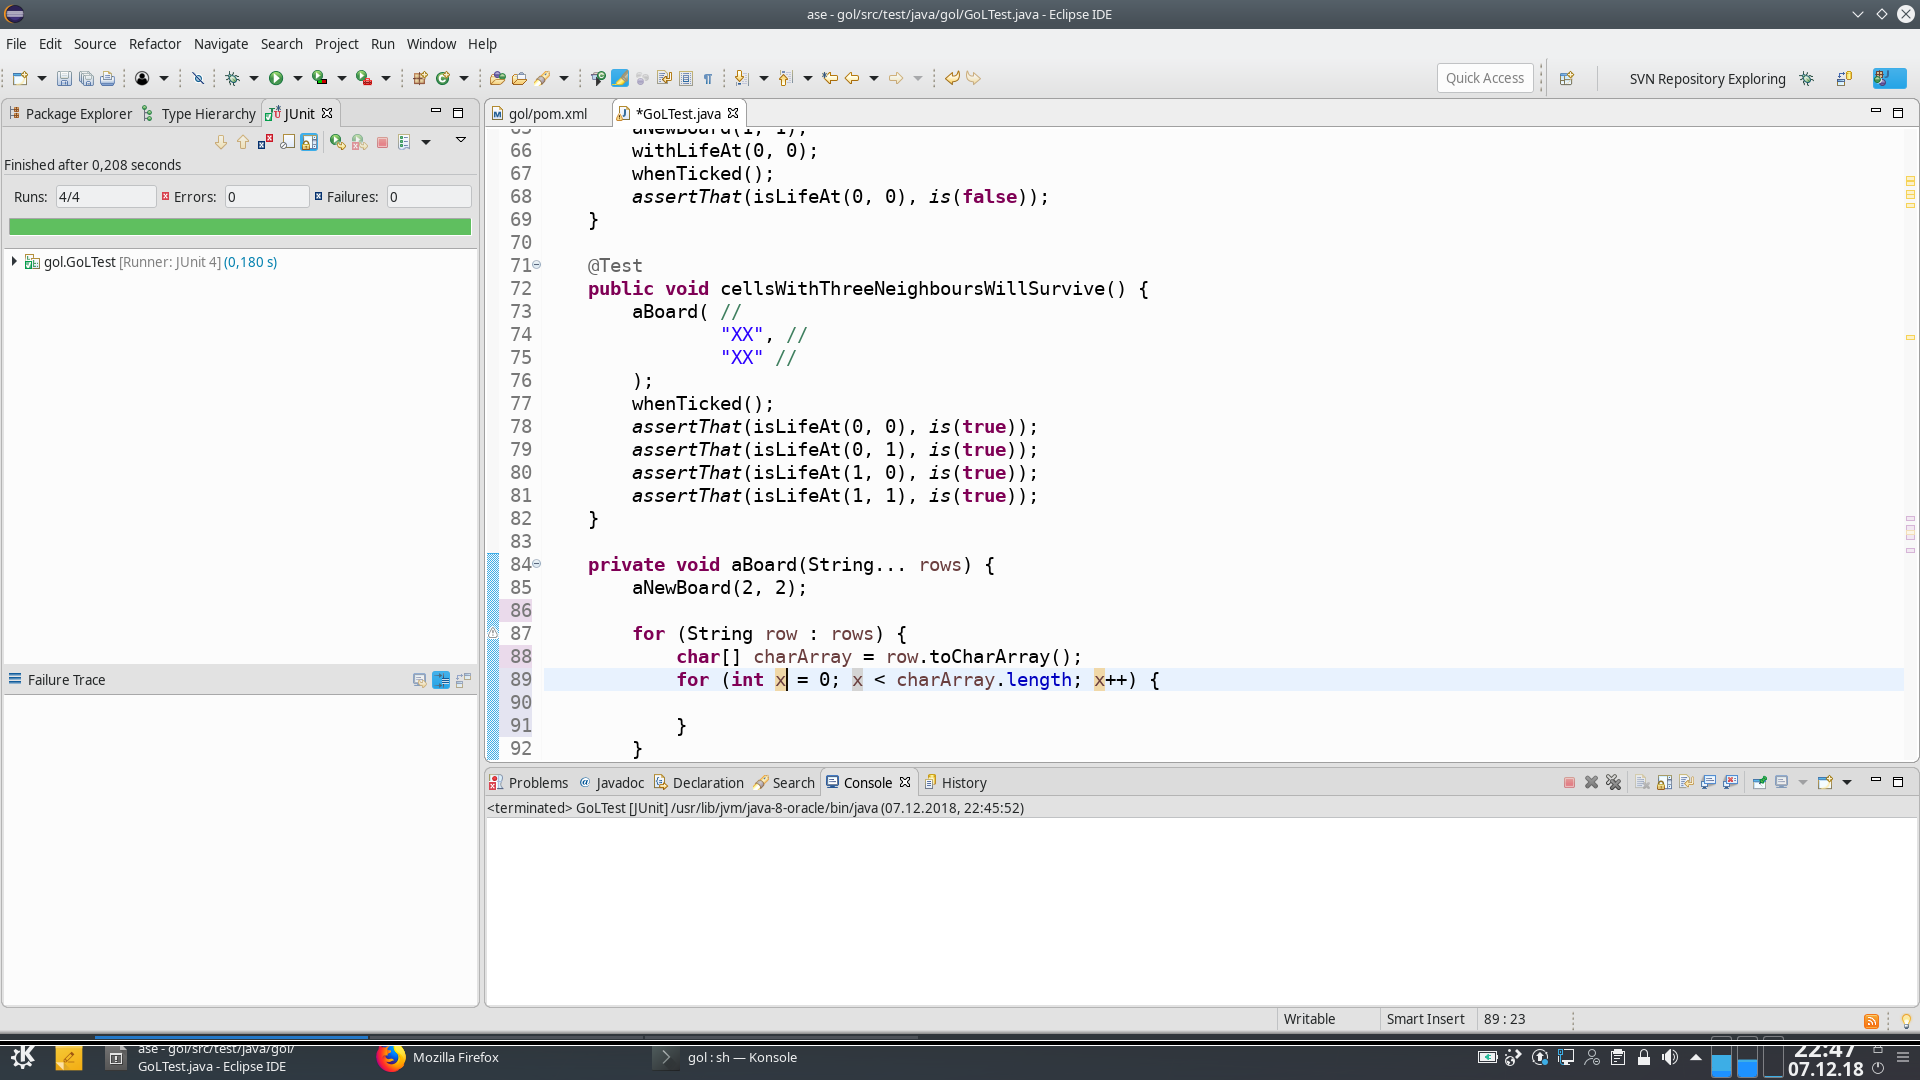
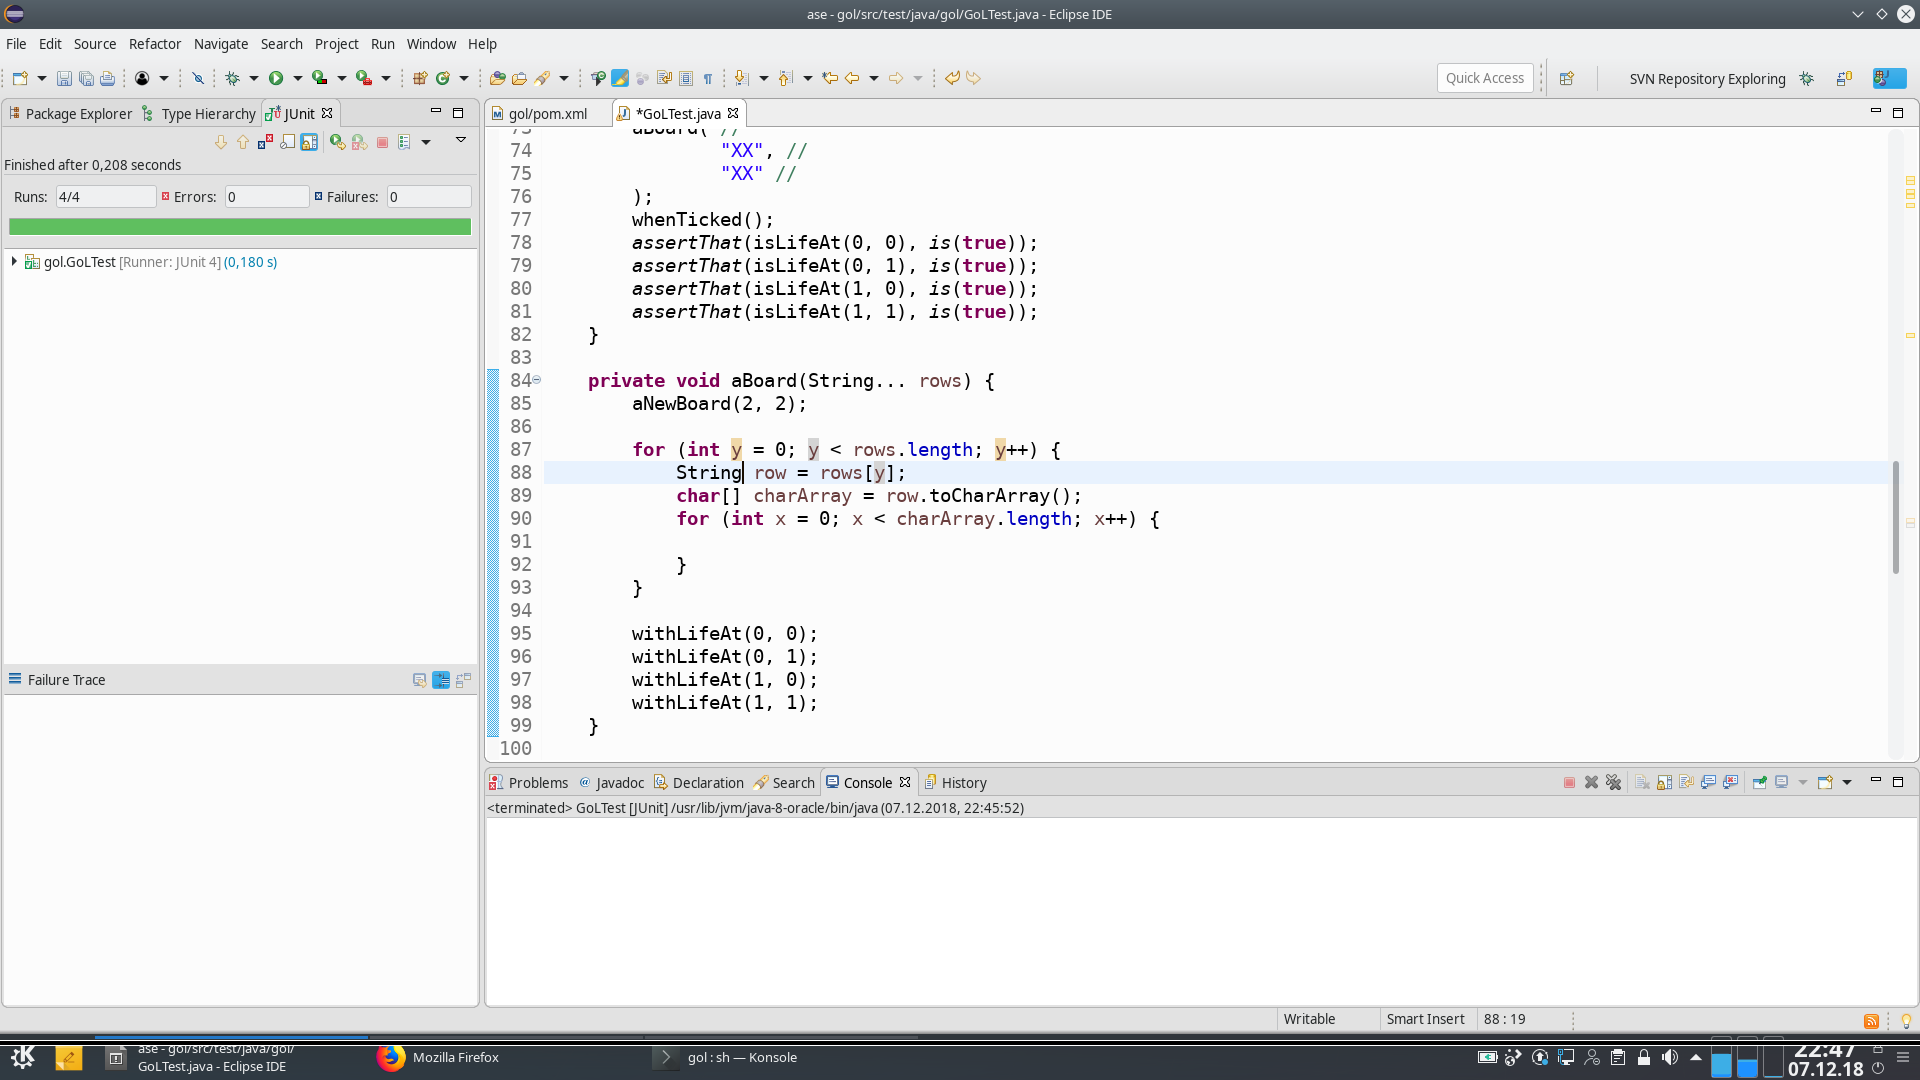
autocommit on change

diff --git a/src/test/java/gol/GoLTest.java b/src/test/java/gol/GoLTest.java
@@ -84,7 +84,8 @@ public class GoLTest {
 	private void aBoard(String... rows) {
 		aNewBoard(2, 2);
 
-		for (String row : rows) {
+		for (int y = 0; y < rows.length; y++) {
+			String row = rows[y];
 			char[] charArray = row.toCharArray();
 			for (int x = 0; x < charArray.length; x++) {
 
